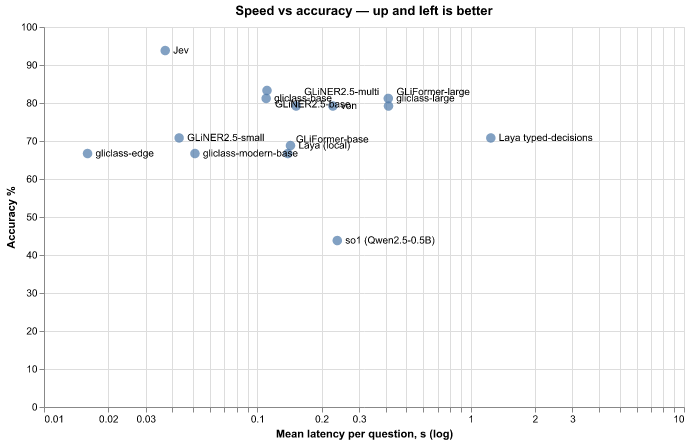
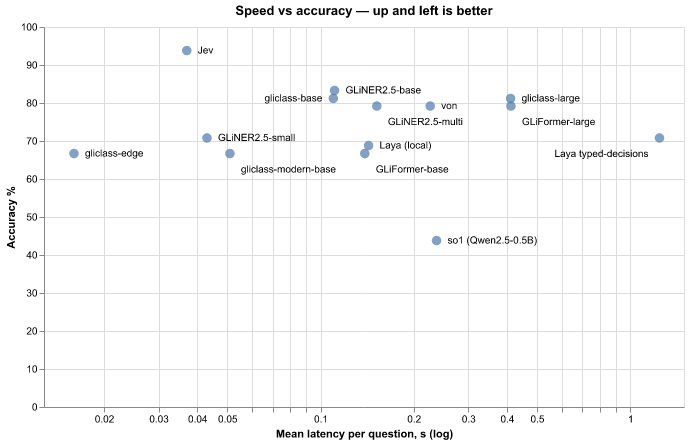
fix(ui): calibrate scatter label packing against rendered pixels
The estimated plot geometry put labels tens of pixels from where
vl-convert actually draws them (plot area starts at x=43.4, y=9.5
inside the canvas, not 0,0). Packing now runs on an affine
data-to-pixel mapping measured from single-point probe renders
(residuals < 0.2 px), prefers dy=0 placement on either side of a
marker before any vertical offset, sizes marker obstacles to the
real circle radius, clamps labels to the canvas bounds, and never
drops a label (least-colliding spot fallback).

diff --git a/app.py b/app.py
@@ -101,66 +101,91 @@ def hbar_chart_labeled(df: pd.DataFrame, value: str, title: str,
 
 
 def _scatter_label_layers(df: pd.DataFrame):
-    """Split points into text layers with a per-layer dy so labels of
-    neighboring points don't print through each other (greedy packing
-    in approximate pixel space)."""
-    lx = [math.log10(v) for v in df["s per question"]]
-    ys = [float(v) for v in df["Accuracy %"]]
-    xmin, xmax = min(lx), max(lx)
-    ymin, ymax = min(ys), max(ys)
+    """Split points into (dy, side, sub-frame) label groups so labels of
+    neighboring points don't print through each other.
 
-    def span(v, lo, hi, size):
-        return size / 2 if hi == lo else (v - lo) / (hi - lo) * size
+    Packing runs in canvas pixel space via an affine data-to-pixel mapping
+    calibrated against actual vl-convert renders of single-point probes
+    (residuals < 0.2 px) for the axis config tradeoff_scatter builds:
+    width 640, height 380, log x over [min*0.8, max*1.2], y over [0, 100].
+    The plot area then starts at (43.4, 9.5) inside the ~690x427 canvas; the
+    chart title shifts everything down uniformly and needs no adjustment."""
+    dmin = math.log10(df["s per question"].min() * 0.8)
+    slope = 640 / (math.log10(df["s per question"].max() * 1.2) - dmin)
 
-    pts = sorted(
-        ((span(x, xmin, xmax, 560), span(y, ymin, ymax, 320), name)
-         for x, y, name in zip(lx, ys, df["System"])),
-        key=lambda p: p[0])
-    placed: list[tuple[float, float, float, float]] = []
-    groups: dict[int, list[str]] = {}
-    for px_, py_, name in pts:
+    def px_(v):
+        return 43.4 + (math.log10(v) - dmin) * slope
+
+    def py_(acc):
+        return 9.5 + (100 - acc) / 100 * 380
+
+    pts = sorted(((px_(v), py_(acc), str(name))
+                  for v, acc, name in zip(df["s per question"],
+                                          df["Accuracy %"], df["System"])),
+                 key=lambda p: p[0])
+    # every point marker is an obstacle for every label (radius ~5.4 px,
+    # padded to 6); canvas is ~690 px wide with the plot ending at ~683
+    placed = [(x - 6, x + 6, y - 6, y + 6) for x, y, _ in pts]
+
+    def collisions(box):
+        return sum(1 for b in placed
+                   if box[0] - 3 < b[1] and box[1] + 3 > b[0]
+                   and box[2] - 2 < b[3] and box[3] + 2 > b[2])
+
+    groups: dict[tuple[int, str], list[str]] = {}
+    for x, y, name in pts:
         width = 6.5 * len(name)
-        for dy in (0, -14, 14, -28, 28, -42, 42):
-            box = (px_ + 8, px_ + 8 + width,
-                   py_ + dy - 6, py_ + dy + 6)
-            if not any(box[0] - 2 < b[1] and box[1] + 2 > b[0]
-                       and box[2] - 2 < b[3] and box[3] + 2 > b[2]
-                       for b in placed):
-                placed.append(box)
-                groups.setdefault(dy, []).append(name)
-                break
-        else:
-            groups.setdefault(0, []).append(name)
-    return [(dy, df[df["System"].isin(names)])
-            for dy, names in groups.items()]
+        # dy=0 on either side outranks any vertical offset: a label centered
+        # on its own marker is the clearest association, especially where two
+        # markers stack within ~10 px and an offset label reads as the other
+        # dot's name
+        spots = [(side, x + 11, x + 11 + width, dy)
+                 if side == "right" else (side, x - 11 - width, x - 11, dy)
+                 for dy in (0, -16, 16, -32, 32, -48, 48, -64, 64)
+                 for side in ("right", "left")]
+        spots = [s for s in spots if s[1] >= 2 and s[2] <= 686]
+        chosen = next((s for s in spots
+                       if collisions((s[1], s[2], y + s[3] - 8, y + s[3] + 6)) == 0),
+                      None)
+        if chosen is None:  # never drop a label: take the least-colliding spot
+            chosen = min(spots, key=lambda s: collisions(
+                (s[1], s[2], y + s[3] - 8, y + s[3] + 6)))
+        side, x0, x1, dy = chosen
+        placed.append((x0, x1, y + dy - 8, y + dy + 6))
+        groups.setdefault((dy, side), []).append(name)
+    return [(dy, side, df[df["System"].isin(names)])
+            for (dy, side), names in groups.items()]
 
 
 def tradeoff_scatter(df: pd.DataFrame, title: str):
-    """Accuracy vs latency: every system one labeled point."""
-    def x_enc():
-        return alt.X("s per question:Q", scale=alt.Scale(type="log"),
-                     title="Mean latency per question, s (log)")
-
-    def y_enc():
-        return alt.Y("Accuracy %:Q", scale=alt.Scale(domain=[0, 100]),
-                     title="Accuracy %")
-
+    """Accuracy vs latency: every system one labeled point. All layers
+    share one explicit x/y scale — per-layer auto domains would place
+    subsets' labels on a different coordinate system than the points."""
+    xscale = alt.Scale(type="log",
+                       domain=[df["s per question"].min() * 0.8,
+                               df["s per question"].max() * 1.2])
+    yscale = alt.Scale(domain=[0, 100])
     points = (
         alt.Chart(df, title=title)
         .mark_circle(size=90)
         .encode(
-            x=x_enc(), y=y_enc(),
+            x=alt.X("s per question:Q", scale=xscale,
+                    title="Mean latency per question, s (log)"),
+            y=alt.Y("Accuracy %:Q", scale=yscale, title="Accuracy %"),
             tooltip=[alt.Tooltip("System:N"),
                      alt.Tooltip("Accuracy %:Q", format=".1f"),
                      alt.Tooltip("s per question:Q", format=".3f")],
         )
     )
     layers = [points]
-    for dy, sub in _scatter_label_layers(df):
+    for dy, side, sub in _scatter_label_layers(df):
         layers.append(
             alt.Chart(sub)
-            .mark_text(align="left", dx=8, dy=dy, fontSize=10)
-            .encode(x=x_enc(), y=y_enc(), text="System:N"))
+            .mark_text(align="left" if side == "right" else "right",
+                       dx=11 if side == "right" else -11, dy=dy, fontSize=10)
+            .encode(x=alt.X("s per question:Q", scale=xscale),
+                    y=alt.Y("Accuracy %:Q", scale=yscale),
+                    text="System:N"))
     return alt.layer(*layers).interactive().properties(
         width=640, height=380)
 
